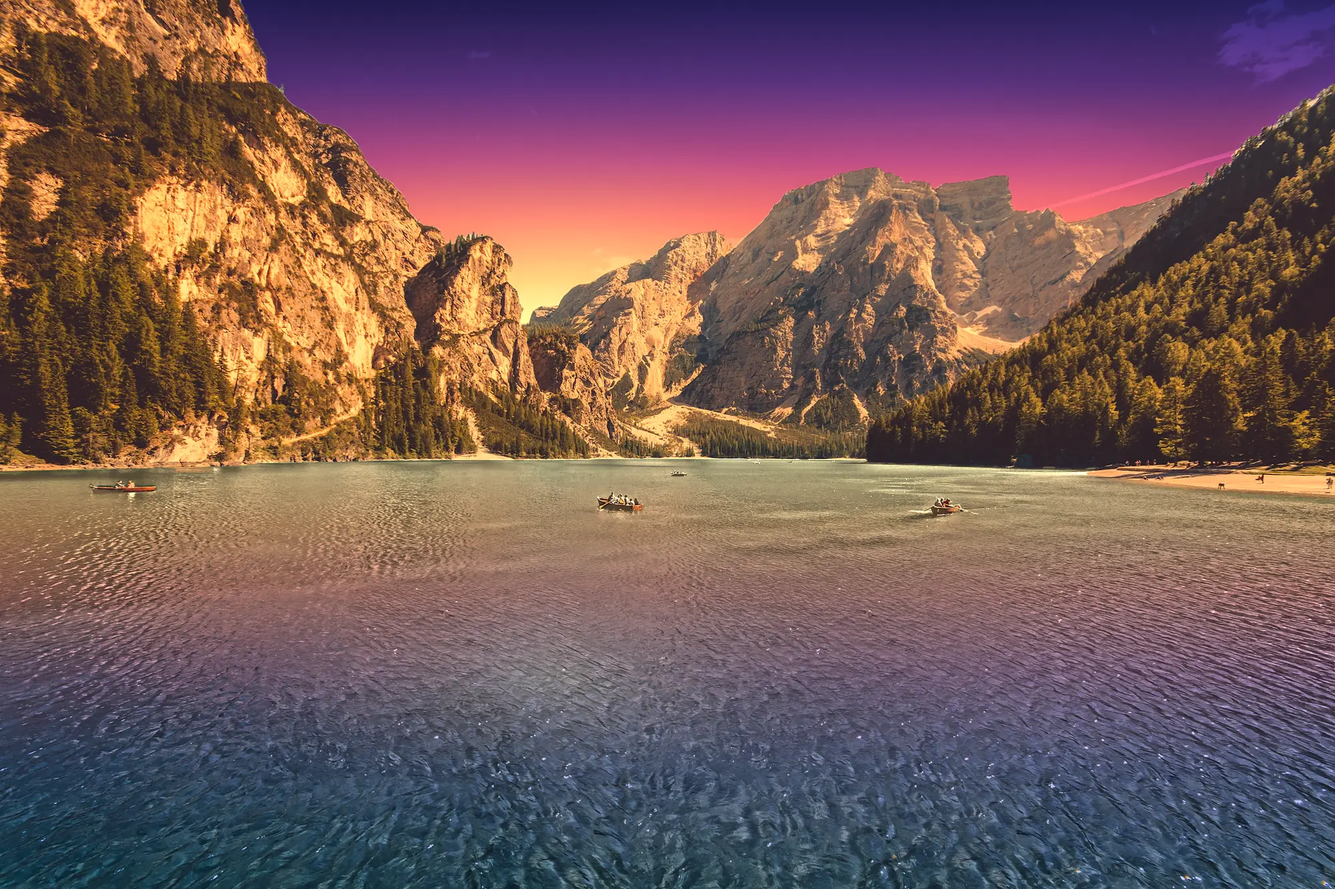
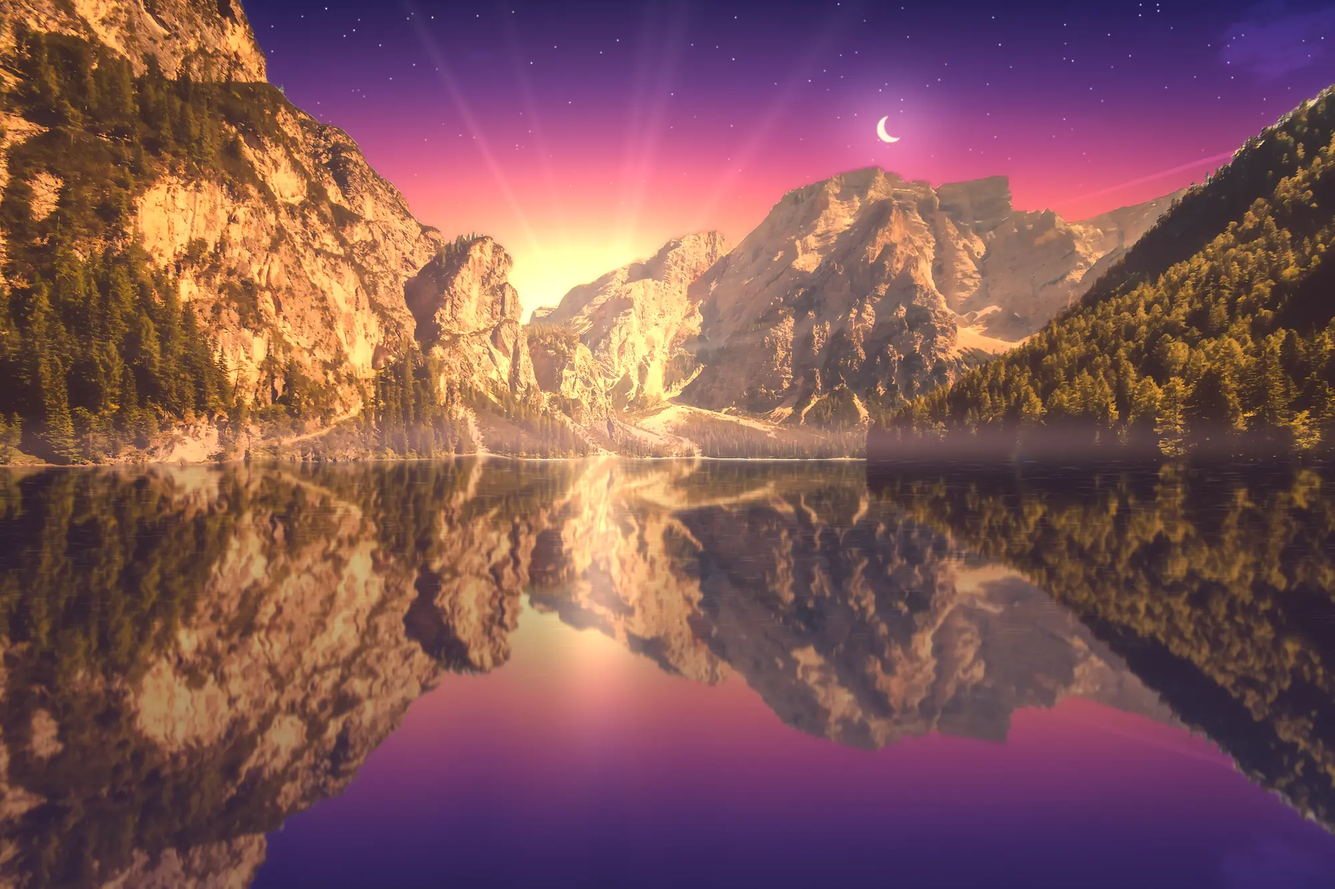
v19: fantasy loading scene, no people, calm mirror lake

diff --git a/index.html b/index.html
@@ -741,7 +741,7 @@ button:active:not(:disabled),[role="button"]:active,[role="switch"]:active,.scp:
 var lenaSunset=(function(){
 'use strict';
 var NS='http://www.w3.org/2000/svg', XL='http://www.w3.org/1999/xlink';
-var P1='assets/loading/mountain.webp', P2='assets/loading/mountain-wide.webp', G2='assets/loading/grass.webp';
+var WM1='assets/loading/water-mask.png', WM2='assets/loading/water-mask-wide.png', P1='assets/loading/mountain.webp', P2='assets/loading/mountain-wide.webp', G2='assets/loading/grass.webp';
 var svg=null, host=null, H=1000, W=1600, uid=0, lastW=0, to=null, warmed=false;
 function rng(seed){return function(){seed|=0;seed=seed+0x6D2B79F5|0;var t=Math.imul(seed^seed>>>15,1|seed);t=t+Math.imul(t^t>>>7,61|t)^t;return((t^t>>>14)>>>0)/4294967296;};}
 function el(n,a,p){var e=document.createElementNS(NS,n);for(var k in a){if(k==='href'){e.setAttribute('href',a[k]);e.setAttributeNS(XL,'xlink:href',a[k]);}else e.setAttribute(k,a[k]);}if(p)p.appendChild(e);return e;}
@@ -770,11 +770,11 @@ function build(){
     PW=Math.max(W,H*1.5); PH=PW/1.5; PX=(W-PW)/2;
     // put the far shore a little above the grass, so the water shows
     PT=Math.max(H-PH,Math.min(0,(GT-210)-PH*.52)); SH=PT+PH*.52;
-    GX=PX+PW*.45; GY=PT+PH*.36;
+    GX=PX+PW*.448; GY=PT+PH*.41;
   }else{
     PW=Math.max(W,H*2/3); PH=PW*1.5; PX=(W-PW)/2;
     PT=Math.max(H-PH,Math.min(0,H*.5-PH*(.56-.27*wide))); SH=PT+PH*.676;
-    GX=PX+PW*.75; GY=PT+PH*.335;
+    GX=PX+PW*.76; GY=PT+PH*.313;
   }
   el('rect',{width:W,height:H,fill:'#28225F'},svg);
   el('image',{id:'ls-p1',href:SRCP,x:f(PX),y:f(PT),width:f(PW),height:f(PH),preserveAspectRatio:'none'},defs);
@@ -784,10 +784,11 @@ function build(){
     var wy=SH+8, wh=Math.min(PT+PH,GT+60)-wy;
     var fl=el('filter',{id:'ls-rip',filterUnits:'userSpaceOnUse',x:0,y:f(wy),width:W,height:f(wh),'color-interpolation-filters':'sRGB'},defs);
     var tb=el('feTurbulence',{type:'fractalNoise',baseFrequency:'0.004 0.05',numOctaves:2,seed:7,result:'n'},fl);
-    el('animate',{attributeName:'baseFrequency',dur:'16s',values:'0.004 0.05;0.007 0.085;0.004 0.05',repeatCount:'indefinite'},tb);
-    el('feDisplacementMap',{'in':'SourceGraphic',in2:'n',scale:f(PW/(land?420:150)),xChannelSelector:'R',yChannelSelector:'G'},fl);
-    var cp=el('clipPath',{id:'ls-wclip'},defs); el('rect',{x:0,y:f(wy+3),width:W,height:f(wh-6)},cp);
-    var wg=el('g',{'clip-path':'url(#ls-wclip)'},svg), wf=el('g',{filter:'url(#ls-rip)'},wg);
+    el('animate',{attributeName:'baseFrequency',dur:'16s',values:'0.002 0.06;0.003 0.09;0.002 0.06',repeatCount:'indefinite'},tb);
+    el('feDisplacementMap',{'in':'SourceGraphic',in2:'n',scale:f(PW/650),xChannelSelector:'R',yChannelSelector:'G'},fl);
+    var wm=el('mask',{id:'ls-wmask',maskUnits:'userSpaceOnUse',x:f(PX),y:f(PT),width:f(PW),height:f(PH)},defs);
+    el('image',{href:land?WM2:WM1,x:f(PX),y:f(PT),width:f(PW),height:f(PH),preserveAspectRatio:'none'},wm);
+    var wg=el('g',{mask:'url(#ls-wmask)'},svg), wf=el('g',{filter:'url(#ls-rip)'},wg);
     el('use',{href:'#ls-p1'},wf);
   }
   var nz=noise(5);
@@ -1598,7 +1599,7 @@ This is a screening result, not a diagnosis. Please discuss it with a qualified 
 <p style="font-size:12px;color:var(--muted)">The sunset loading scene uses photos by Pietro De Grandi and Margo Evardson on Unsplash.</p>
 <div class="about-acts"><button class="btn-g" onclick="go('team')" style="padding:10px 18px;font-size:13px">Meet the team</button></div>
 </div>
-<div class="about-ver">LENA v1.0 · build 18 · IIUM KICT</div>
+<div class="about-ver">LENA v1.0 · build 19 · IIUM KICT</div>
 </div>
 <div class="sp"></div>
 </div>

diff --git a/sw.js b/sw.js
@@ -29,7 +29,7 @@
    previous build. This is the one way a service worker commonly goes wrong.
    ────────────────────────────────────────────────────────────────────── */
 
-const CACHE_VERSION = 'v18';
+const CACHE_VERSION = 'v19';
 const CACHE = 'lena-' + CACHE_VERSION;
 
 // Everything needed for a cold, offline start.
@@ -45,6 +45,8 @@ const PRECACHE = [
   '/assets/LENA-logo.png',
   '/assets/loading/mountain.webp',
   '/assets/loading/mountain-wide.webp',
+  '/assets/loading/water-mask.png',
+  '/assets/loading/water-mask-wide.png',
   '/assets/loading/grass.webp',
   '/assets/loading/mark-dim.webp',
   '/assets/loading/mark-lit.webp',
